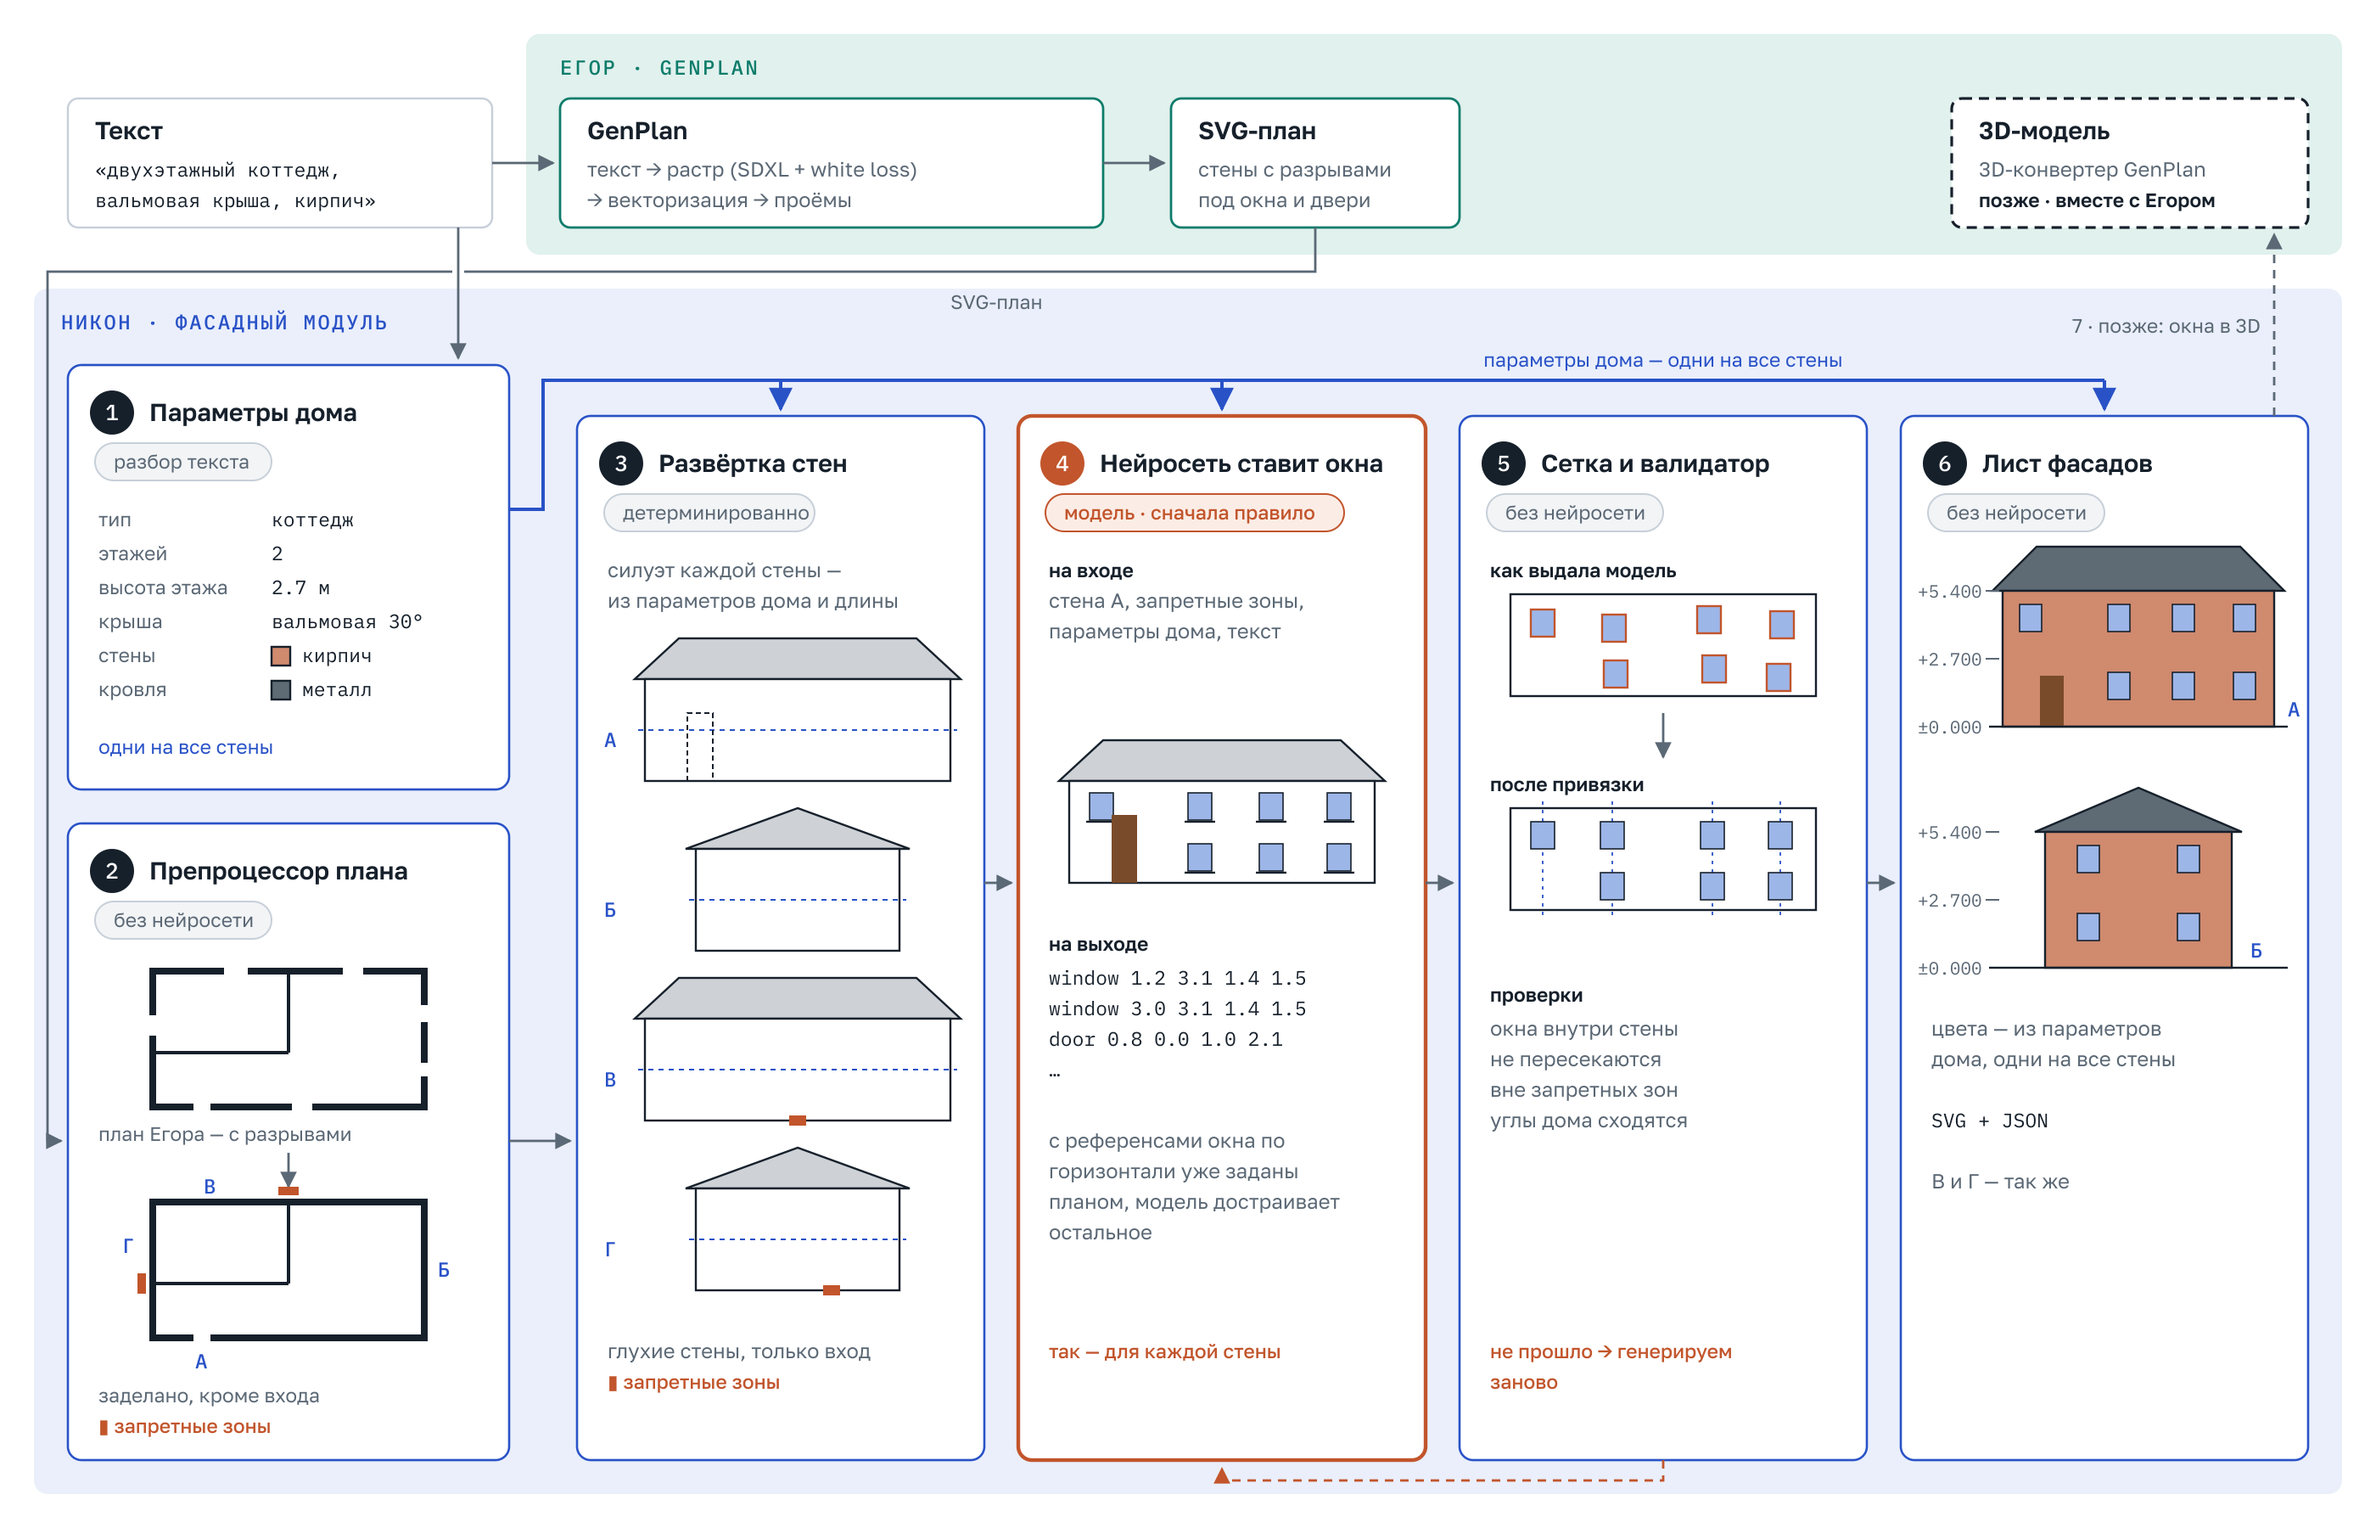
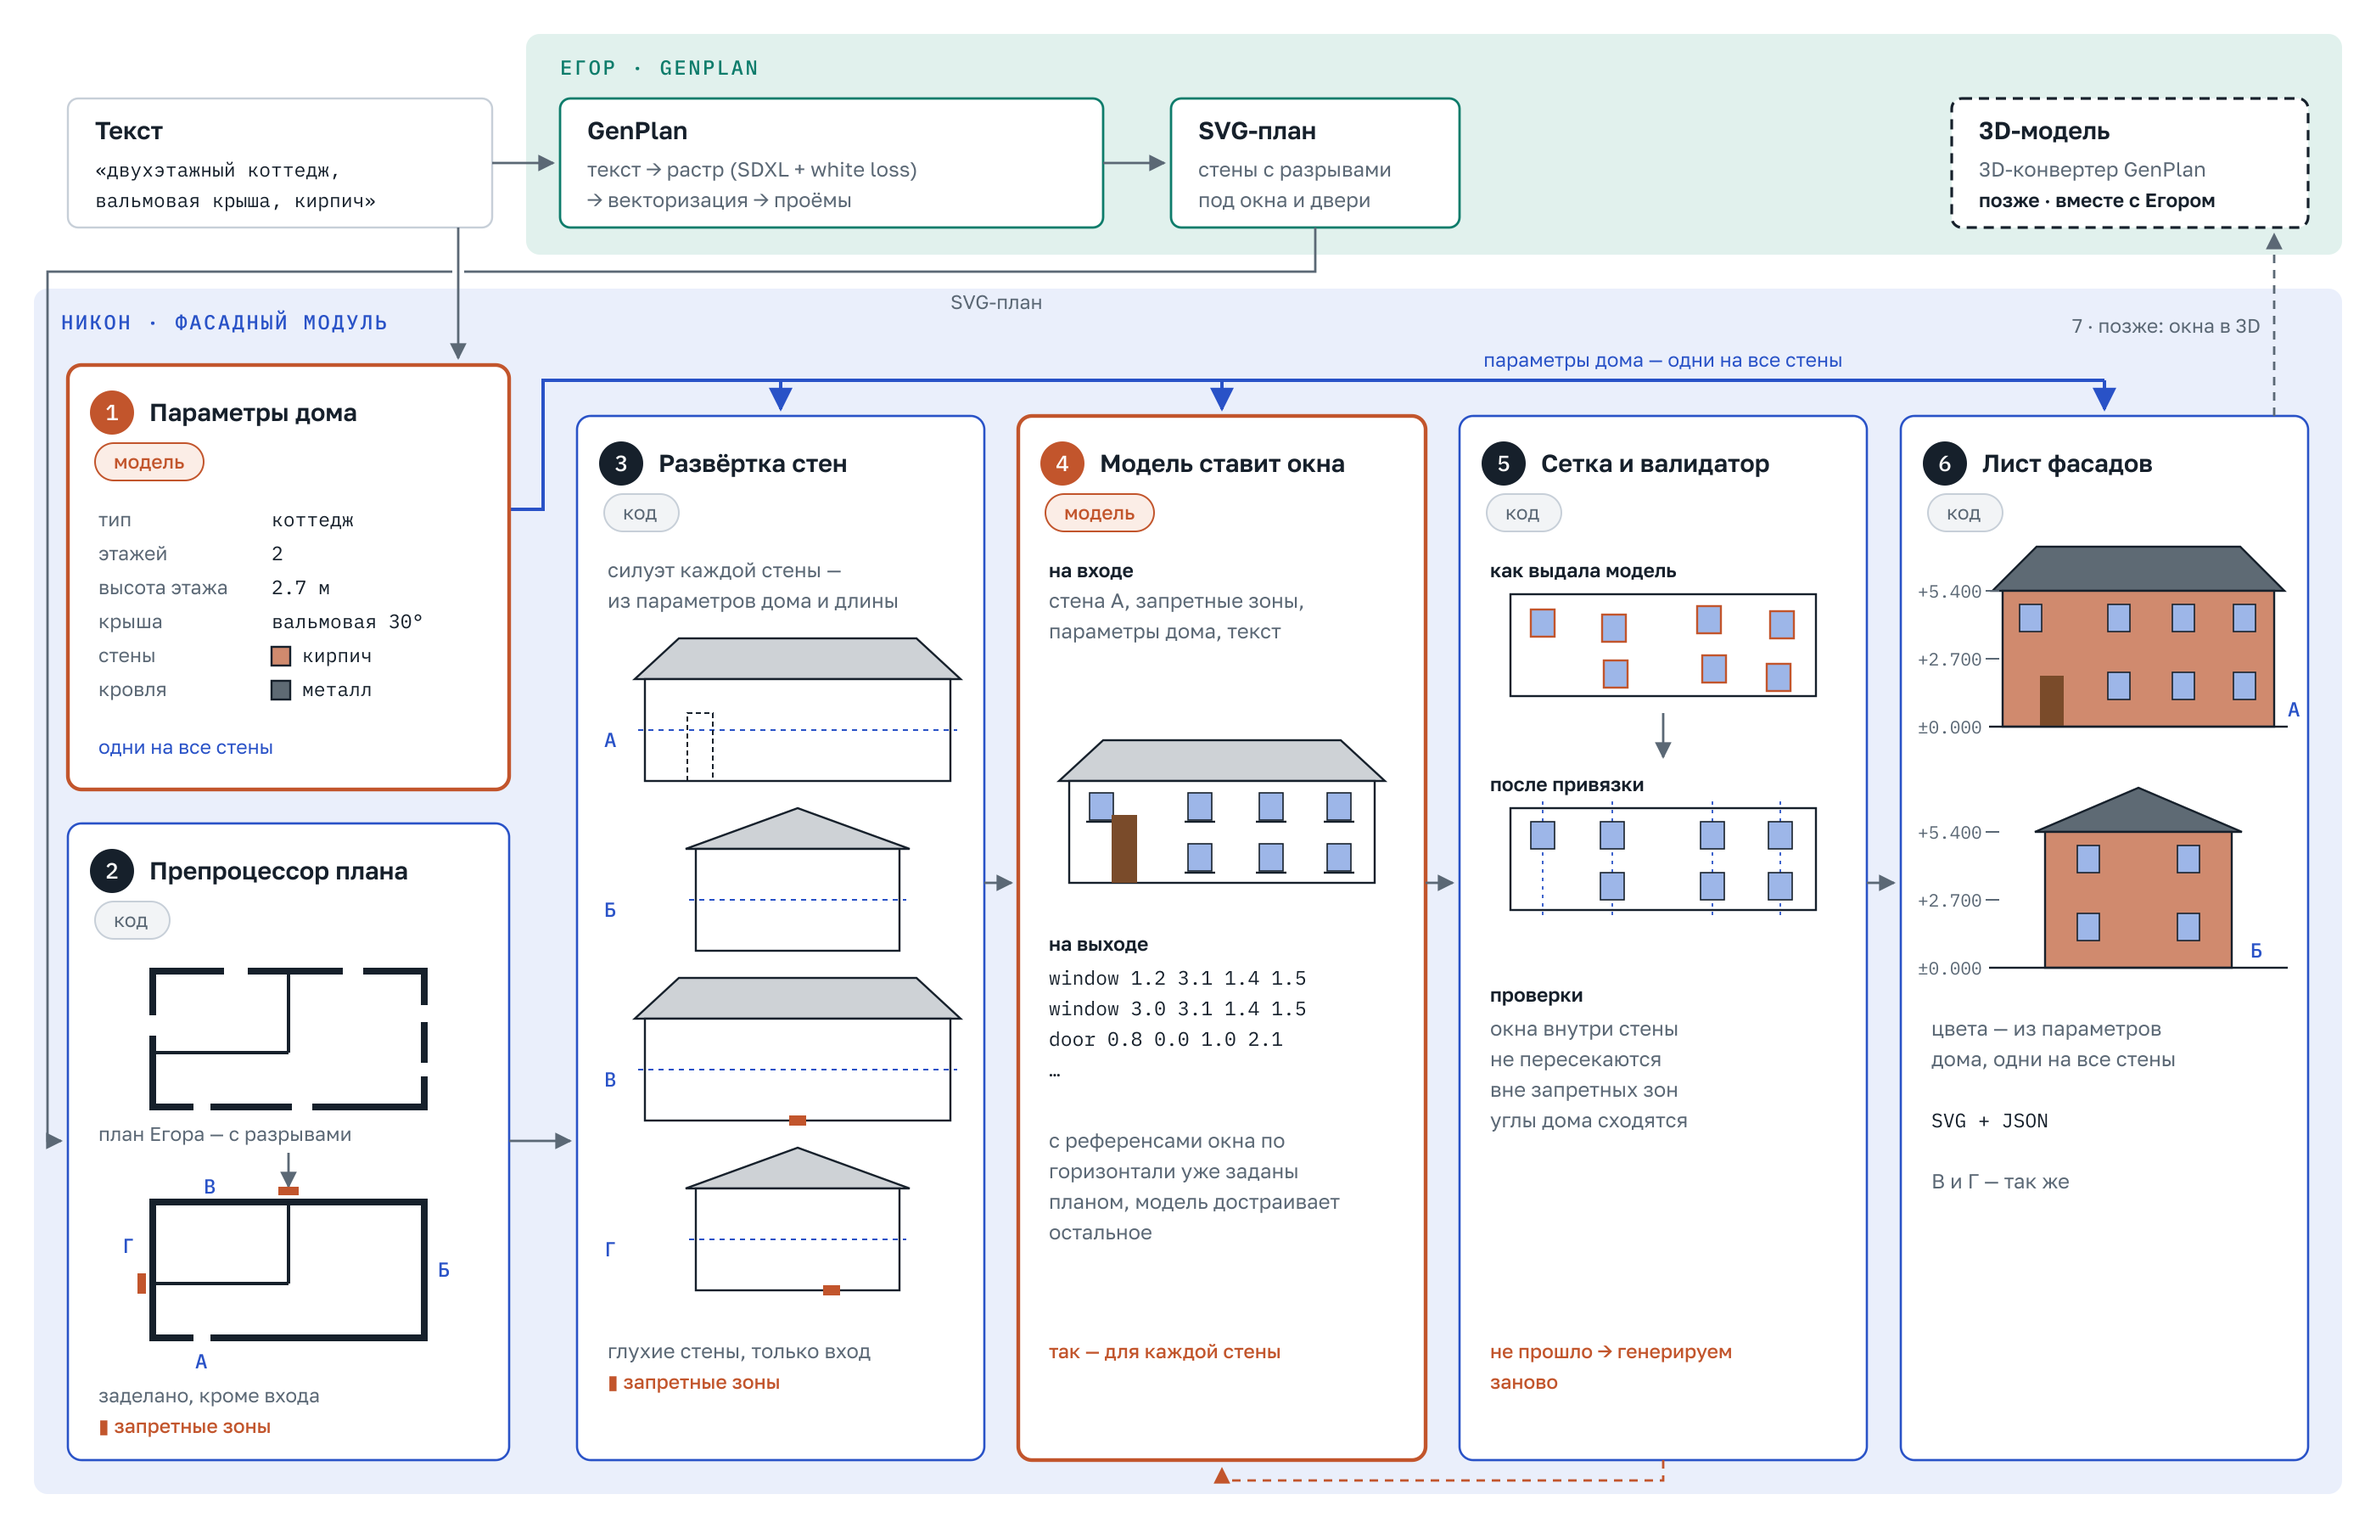
Схема: пометки «код» / «модель»; разбор текста тоже делает модель
Модель — шаги 1 (текст → параметры дома) и 4 (элементы на стены),
остальное код. Картинка, CLAUDE.md и specs/generation.md приведены к этому.

diff --git a/CLAUDE.md b/CLAUDE.md
@@ -30,20 +30,20 @@
         → SVG-план (стены с разрывами под окна и двери)
   3D-конвертер GenPlan → 3D-модель   [позже, делаем ВМЕСТЕ]
 
-НИКОН · фасадный модуль — 7 шагов, нейросеть только на шаге 4
+НИКОН · фасадный модуль — 7 шагов: модель на шагах 1 и 4, остальное код
   1. текст → параметры дома (тип, этажи, высота, крыша, материалы)
-     — одни на все стены                                   [разбор текста]
+     — одни на все стены                                   [модель]
   2. SVG-план → препроцессор: стороны, заделанные разрывы
-     (глухой режим, кроме входа), запретные зоны, метры      [без нейросети]
-  3. развёртка: силуэт каждой стены из параметров и длины    [детерминированно]
-  4. нейросеть на каждую стену ставит окна и элементы;
+     (глухой режим, кроме входа), запретные зоны, метры      [код]
+  3. развёртка: силуэт каждой стены из параметров и длины    [код]
+  4. модель на каждую стену ставит окна и элементы;
      вход: стена + запретные зоны + параметры + текст;
-     выход: «класс + прямоугольник»                          [модель; сначала правило]
+     выход: «класс + прямоугольник»                          [модель]
      (с референсами окна по горизонтали уже заданы планом)
   5. привязка к сетке этажей и осей + валидатор;
-     не прошло → генерируем заново                           [без нейросети]
+     не прошло → генерируем заново                           [код]
   6. лист фасадов: цвета из параметров дома, отметки уровней,
-     SVG + JSON                                               [без нейросети]
+     SVG + JSON                                               [код]
   7. окна из фасадов → 3D-конвертер GenPlan                  [позже, вместе с Егором]
   сбоку: обучение и оценка — синтетика building_tools, CMP, Solar Decathlon;
          метрики: геометрия, структура, разнообразие, валидность SVG,
@@ -57,8 +57,8 @@
   генерацию GenPlan не меняем — предложено, ждёт ответа Егора (gf#36).
   Итоговая 3D-модель — совместная (Валерия 28.09).
 - **Главная идея** — параметры дома общие для всех сторон, поэтому фасады
-  сходятся на углах по построению; нейросеть ставит только элементы стен,
-  цвет она не выбирает.
+  сходятся на углах по построению; модель ставит только элементы стен,
+  цвет она не выбирает. Пока модели нет, на шагах 1 и 4 стоит правило.
 - Подробности каждого блока — в `specs/` (task, plan-input, facade, generation,
   data, evaluation, integration).
 

diff --git a/specs/generation.md b/specs/generation.md
@@ -11,15 +11,16 @@
 
 ## Правила
 
-1. Конвейер из семи шагов, нейросеть — только шаг 4 *(дельта 28.09, обсуждение
-   с хозяином; схема — docs/assets/facade-modules.png)*:
+1. Конвейер из семи шагов: модель — шаги 1 и 4, остальное код *(дельта 28.09,
+   решение хозяина; схема — docs/assets/facade-modules.png)*:
    1) текст → `HouseSpec`; 2) план → препроцессор: стороны, заделанные разрывы
    (глухой режим), запретные зоны, метры; 3) развёртка: силуэт каждой стены
    из `HouseSpec` и длины стороны, детерминированно; 4) модель ставит элементы
    на каждую стену; 5) разбор ответа → привязка к сетке → валидатор, брак —
    генерировать заново; 6) отрисовка листа фасадов, цвета из `HouseSpec`;
    7) позже — окна из `FacadeSheet` в 3D-конвертер GenPlan (integration.md).
-2. **Разбор текста** в `HouseSpec` — отдельный шаг. Через него же работает условная
+2. **Разбор текста** в `HouseSpec` — отдельный шаг, его делает модель *(решение
+   хозяина 28.09)*; до модели — правило. Через этот шаг работает условная
    генерация по параметрам (ТЗ, п. 8): `HouseSpec` можно задать без текста.
 3. **Генератор** выдаёт элементы одной стороны последовательностью токенов
    «класс, x, y, w, h» на квантованной сетке. Условия: `HouseSpec`, `Side`
@@ -60,4 +61,4 @@
 - Какая архитектура основная — по итогам сравнения (gf#10).
 - Генерировать стороны независимо при общем `HouseSpec` или последовательно,
   с учётом уже сгенерированных сторон (ритм окон на соседних фасадах).
-- Разбор текста: дообученная LLM, та же модель, что генератор, или zero-shot, как BART в GenPlan.
+- Какая модель разбирает текст: та же, что ставит элементы, отдельная дообученная LLM или zero-shot.
